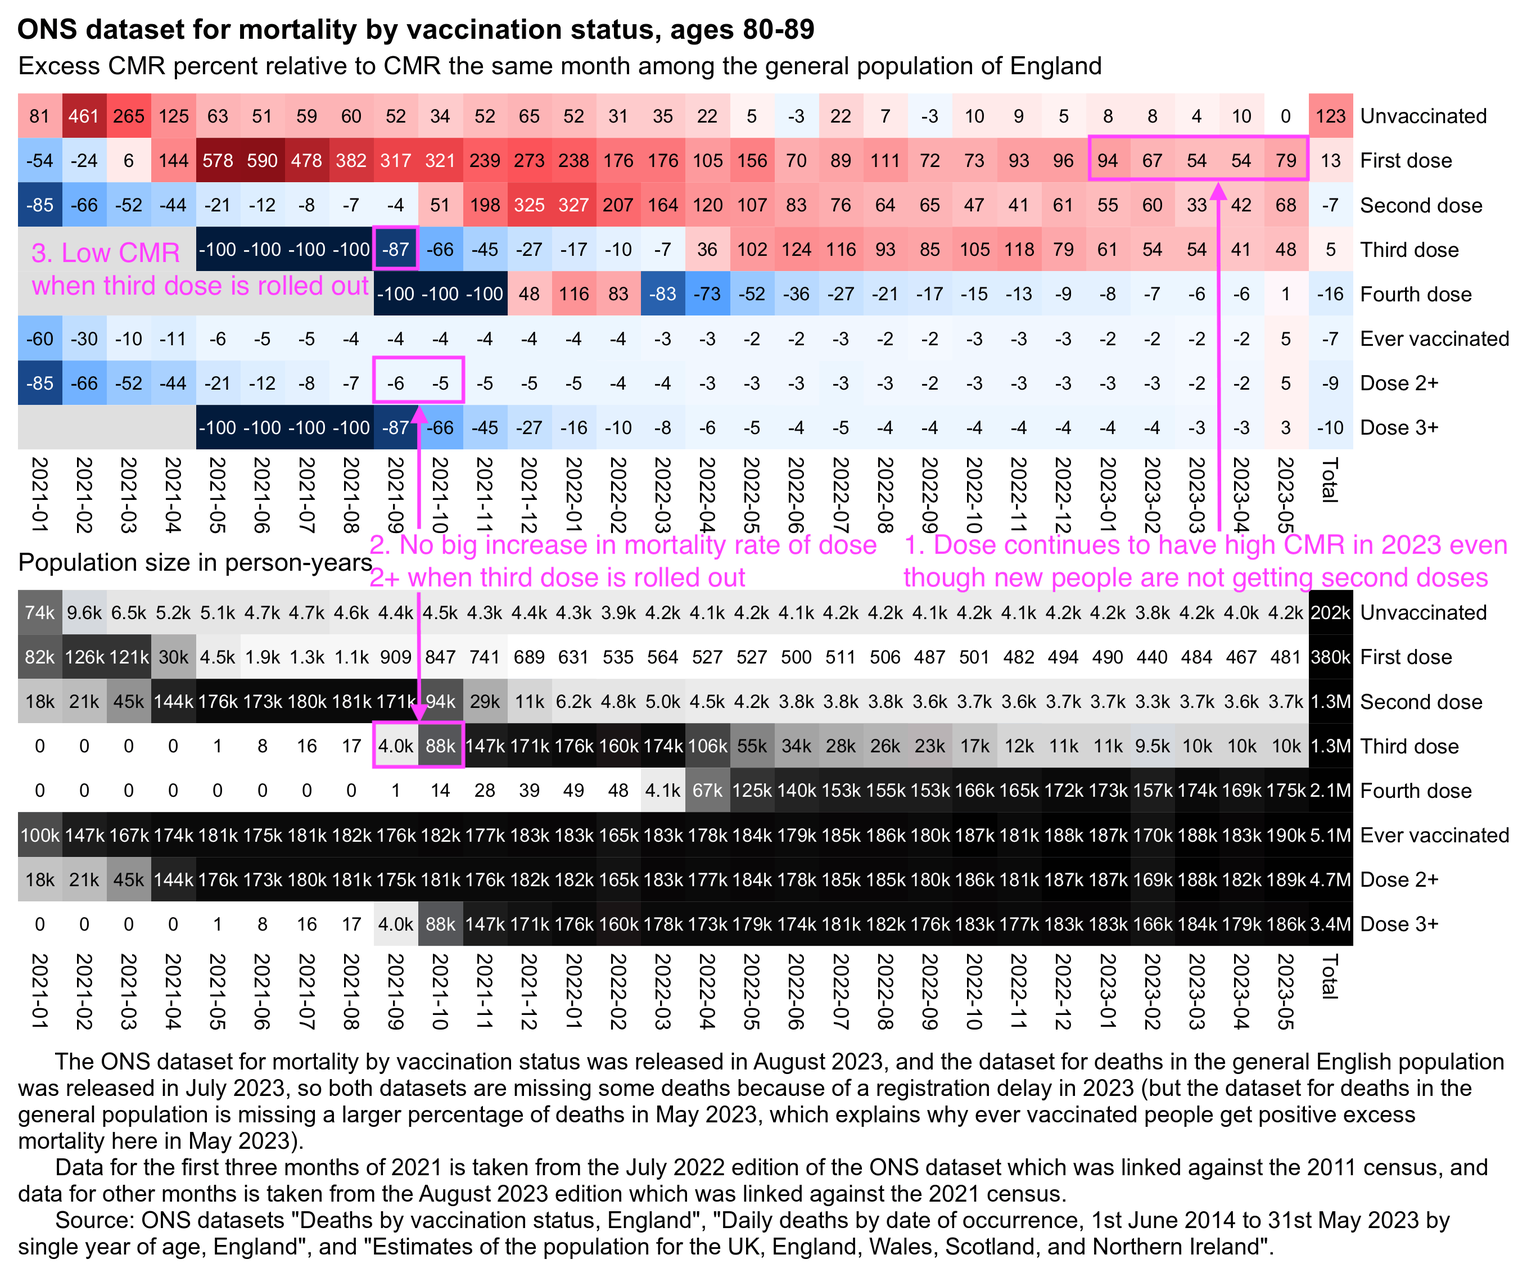
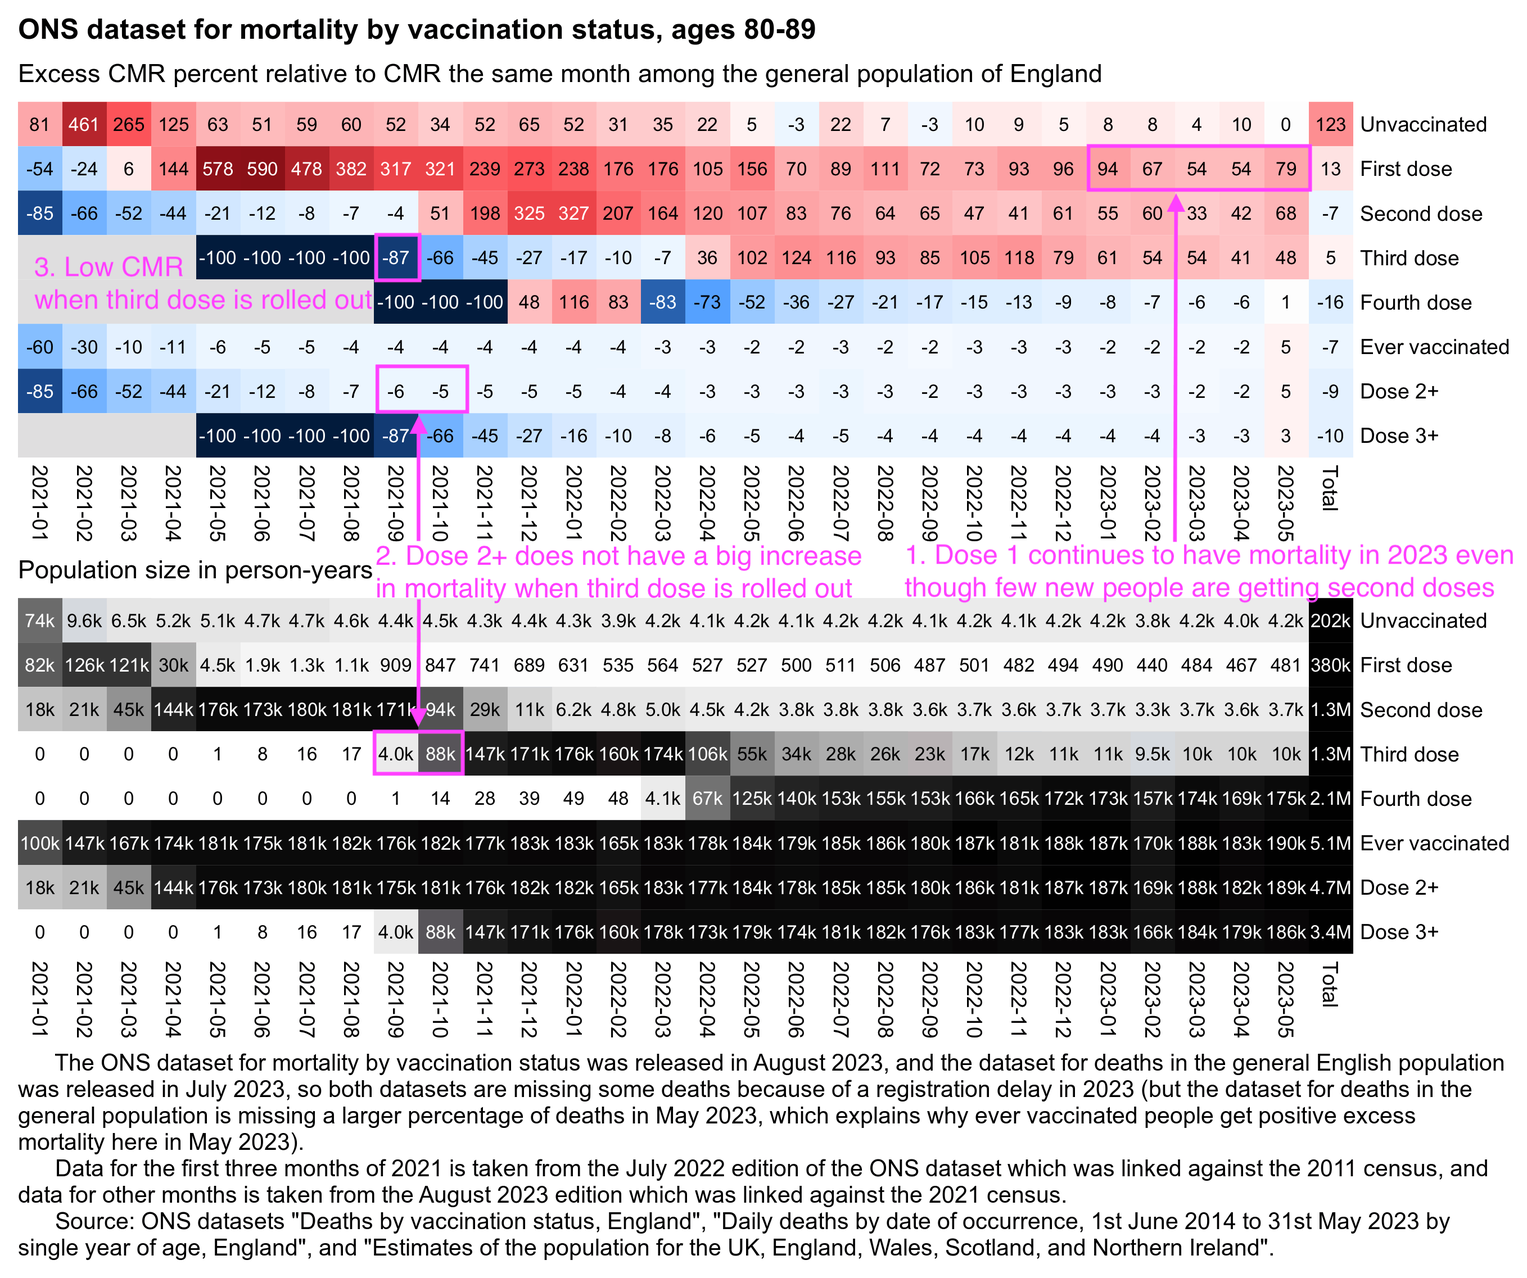
a

diff --git a/rootclaim.html b/rootclaim.html
@@ -4,6 +4,8 @@
 body{background:#292929;color:white;margin:6px 6px 6px max(6px, min(50vw - 270px, 100vw - 1100px))}
 body,td,th{font:14.5px/1.3 Arial,Helvetica,'Liberation Sans',sans-serif}
 p{max-width:540px}
+ul,ol{max-width:500px}
+.toc{max-width:none}
 h1,h2,h3,h2 a,h3 a,h2 a:visited,h3 a:visited{font-weight:normal;color:white}
 h1{font-size:2.1em;margin-top:.9em}
 h2{font-size:1.7em}
@@ -29,7 +31,7 @@ blockquote .quote,blockquote blockquote,.quote .quote{color:hsl(45,55%,65%)}
 blockquote blockquote blockquote,blockquote blockquote .quote,blockquote .quote .quote,.quote .quote .quote{color:hsl(40,40%,50%)}
 .spoiler button{width:90px;border:0;font-family:inherit;font-size:inherit;color:inherit;margin:0;background:#4a4a4a;padding:4px 0px;outline:none;cursor:pointer}
 .spoiler pre{display:none;margin-top:0}
-.red,.red .quote{color:hsl(0,100%,75%)!important}
+.red,.red .quote{color:hsl(0,100%,77%)!important}
 .width1{max-width:100px}
 .width2{max-width:200px}
 .width3{max-width:300px}
@@ -62,9 +64,9 @@ blockquote blockquote blockquote,blockquote blockquote .quote,blockquote .quote 
 <title>Rootclaim vaccine debate between Steve Kirsch and Saar Wilf</title>
 <h1>Rootclaim vaccine debate between Steve Kirsch and Saar Wilf - <a href=index.html>sars2.net</a></h1>
 <h2 id=Contents><a href=#Contents>Contents</a></h2>
-<ul>
+<ul class=toc>
 <li><a href=#Comments_to_Kirschs_initial_arguments>Comments to Kirsch's initial arguments</a>
-<ul>
+<ul class=toc>
 <li><a href=#Fenton_and_Neils_miscategorization_bias>Fenton and Neil's miscategorization bias</a></li>
 <li><a href=#Study_about_COVID_cases_in_children_under_the_age_of_5_1b>Study about COVID cases in children under the age of 5 (1b)</a></li>
 <li><a href=#Plot_by_Jikkyleaks_for_COVID_cases_in_four_Israeli_studies_1c>Plot by Jikkyleaks for COVID cases in four Israeli studies (1c)</a></li>
@@ -91,16 +93,16 @@ blockquote blockquote blockquote,blockquote blockquote .quote,blockquote .quote 
 <li><a href=#Ed_Dowds_book_Cause_Unknown_5m>Ed Dowd's book Cause Unknown (5m)</a></li>
 </ul></li>
 <li><a href=#Comments_to_Kirschs_rebuttal>Comments to Kirsch's rebuttal</a>
-<ul>
+<ul class=toc>
 <li><a href=#Survival_probability_in_Hungarian_study>Survival probability in Hungarian study</a></li>
 <li><a href=#Excess_CMR_in_Asia_Pacific_countries>Excess CMR in Asia-Pacific countries</a></li>
 </ul></li>
 <li><a href=#Wilfs_arguments>Wilf's arguments</a>
-<ul>
+<ul class=toc>
 <li><a href=#Table_of_excess_deaths_by_cause>Table of excess deaths by cause</a></li>
 </ul></li>
 <li><a href=#Substack_post_by_USMortality>Substack post by USMortality</a>
-<ul>
+<ul class=toc>
 <li><a href=#Lack_of_statistically_significant_excess_deaths>Lack of statistically significant excess deaths</a></li>
 <li><a href=#Effect_of_classifying_people_as_vaccinated_only_2_weeks_after_completing_the_primary_course_doses>Effect of classifying people as vaccinated only 2 weeks after completing the primary course doses</a></li>
 <li><a href=#Excess_mortality_in_New_Zealand>Excess mortality in New Zealand</a></li>
@@ -151,6 +153,72 @@ blockquote blockquote blockquote,blockquote blockquote .quote,blockquote .quote 
 <p>Clare Craig might have later come to the conclusion that the low number of deaths during the first two weeks after vaccination might be explained by the HVE, because in 2024 when someone asked her what she meant by the healthy vaccinee effect, she answered that <span class="quote">&quot;Studies show that the first few weeks after vaccination are outliers because people who are feeling ill postpone.&quot;</span> [<a href="https://x.com/ClareCraigPath/status/1844085783365550508">https://x.com/ClareCraigPath/status/1844085783365550508</a>]</p>
 <p>In 2022 Martin Neil tweeted: <span class="quote">&quot;The ONS's December report claims anomalies we identified are caused by healthy vaccinee effect. We examined the new ONS data and found NO evidence to support this claim&quot;</span>. [<a href="https://x.com/MartinNeil9/status/1481561698792267779">https://x.com/MartinNeil9/status/1481561698792267779</a>] And in March 2024 Neil tweeted: <span class="quote">&quot;There is no evidence of a healthy vaccinee effect. You are signing up to an assumption usually exploited to pretend vaccines are effective. We demonstrated this using the ONS's own data.&quot;</span> [<a href="https://x.com/MartinNeil9/status/1767991047940907318">https://x.com/MartinNeil9/status/1767991047940907318</a>] However by April 2024 he seems to have come to the conclusion that the HVE might be real after all based on a Czech study which said that the HVE explained why unvaccinated people had higher mortality than vaccinated people. [<a href="https://x.com/MartinNeil9/status/1780163490247791002">https://x.com/MartinNeil9/status/1780163490247791002</a>]</p>
 <p>So the old letter by Craig and Neil et al. might no longer represent their current views regarding the HVE. The letter also conflicts with the view of Kirsch, who has said that that the HVE explains why his record-level datasets have a low number of deaths in the first few weeks after vaccination, but he has not claimed that his record-level datasets would suffer from the kind of miscategorization bias that was hypothesized by Clare Craig, Martin Neil, and Norman Fenton.</p>
+<p>In the ONS dataset for deaths by vaccination status, the ASMR of people with n-1 doses shoots up when the nth dose is rolled out. Fenton and Neil hypothesized it was because people who died soon after receiving the nth dose were misclassified under dose n-1.</p>
+<p>The next plot demonstrates three major problems with their hypothesis:</p>
+<ol style="list-style-type: decimal">
+<li>People with one but not more doses continue to have a high mortality rate even in 2023, even though there's few new people who are getting a second dose in 2023 so that they could be misclassified under the first dose if they die soon after getting the second dose.</li>
+<li>If a lot of extra people died soon after they got the third dose, then why is there no big increase to the mortality rate of people with two or more doses when the third dose is rolled out? There is only an increase in the mortality rate of people with two but not more doses, but the group of people with two or more doses should also include people who are misclassified under the second dose if they die soon after getting the third dose.</li>
+<li>In November 2021 when the third dose was rolled out, people with three doses had about 68% lower mortality rate than the general population of England. If there is no evidence of the healthy vaccinee effect in the ONS data like Fenton has suggested, then what explains the low mortality rate? (Fenton might argue it's because within the first two or three weeks from the third dose, person-years are counted under under the third dose but deaths are counted under the second dose. But when I first read the papers by Fenton et al., I didn't realize they suggested that the misclassification delay was only applied to the numerator for deaths but not to the denominator for population size. And if I had realized that Fenton's hypothesis required the misclassification delay to only be applied to the numerator but not to the denominator, I would have considered the hypothesis to be much less plausible.)</li>
+</ol>
+<div class="width10">
+<img src="i/uk-fentonproblem.png">
+</div>
+<div class="spoiler">
+<button>
+Show code
+</button><pre>download.file(&quot;https://www.ons.gov.uk/file?uri=/peoplepopulationandcommunity/birthsdeathsandmarriages/deaths/adhocs/1343dailydeathsbydateofoccurrence1stjune2014to31stmay2023bysingleyearofageengland/dailydeaths2014to2023england.xlsx&quot;,&quot;dailydeaths2014to2023england.xlsx&quot;)
+
+library(data.table)
+
+sum0=\(...)sum(...,na.rm=T)
+kimi=\(x){e=floor(log10(ifelse(x==0,1,abs(x))));e2=pmax(e,0)%/%3+1;p=!is.na(x);x[p]=paste0(sprintf(paste0(&quot;%.&quot;,ifelse(e[p]%%3==0,1,0),&quot;f&quot;),x[p]/1e3^(e2[p]-1)),c(&quot;&quot;,&quot;k&quot;,&quot;M&quot;,&quot;B&quot;,&quot;T&quot;)[e2[p]]);x}
+
+ons=fread(&quot;http://sars2.net/f/ons.csv&quot;)[cause==&quot;All causes&quot;&amp;age==&quot;80-89&quot;]
+ons=rbind(ons[ed==9],ons[ed==7&amp;month&lt;=&quot;2021-03&quot;])
+
+p=ons[,.(dead=sum0(dead),pop=sum0(pop)),.(status=sub(&quot;( or booster|,).*&quot;,&quot;&quot;,status),month)]
+p=rbind(p,ons[status!=&quot;Unvaccinated&quot;,.(dead=sum0(dead),pop=sum0(pop),status=&quot;Ever vaccinated&quot;),month])
+p=rbind(p,ons[status%like%&quot;Second|Third|Fourth&quot;,.(dead=sum0(dead),pop=sum0(pop),status=&quot;Dose 2+&quot;),month])
+p=rbind(p,ons[status%like%&quot;Third|Fourth&quot;,.(dead=sum0(dead),pop=sum0(pop),status=&quot;Dose 3+&quot;),month])
+
+p[,status:=factor(status,c(&quot;Unvaccinated&quot;,&quot;First dose&quot;,&quot;Second dose&quot;,&quot;Third dose&quot;,&quot;Fourth dose&quot;,&quot;Ever vaccinated&quot;,&quot;Dose 2+&quot;,&quot;Dose 3+&quot;))]
+
+dead=setDT(readxl::read_excel(&quot;dailydeaths2014to2023england.xlsx&quot;,sheet=4,range=&quot;A6:CP3293&quot;))
+dead=dead[,.(date=as.Date(paste0(Year,&quot;-&quot;,Month,&quot;-&quot;,Day)),age=rep(0:90,each=.N),dead=unlist(.SD[,-(1:3)],,F))]
+pop=fread(&quot;http://sars2.net/f/englandpop.csv&quot;)[,date:=as.Date(paste0(year,&quot;-7-1&quot;))]
+pop=pop[,with(spline(date,pop,xout=unique(dead$date)),.(date=`class&lt;-`(x,&quot;Date&quot;),pop=y)),age]
+p=merge(p,merge(dead,pop)[age%in%80:89,.(basedead=sum(dead),basepop=sum(pop)/365),.(month=substr(date,1,7))])
+
+p=rbind(p,p[,.(dead=sum(dead),pop=sum(pop),basedead=sum(basedead),basepop=sum(basepop),month=&quot;Total&quot;),status])
+p[,cmr:=dead/pop][,base:=basedead/basepop]
+
+m=p[,tapply((cmr-base)/ifelse(cmr&gt;base,base,cmr),.(status,month),c)]
+disp=p[,tapply((cmr/base-1)*100,.(status,month),round)]
+m2=p[,xtabs(pop~status+month)]
+
+max1=9;max2=max(m2[,-ncol(m2)]);exp1=.6;exp2=.85;exp2=.7
+m[m==-Inf]=-max1
+
+pal1=hsv(rep(c(21/36,0),4:5),c(1,.8,.6,.3,0,.3,.6,.8,1),c(.3,.65,1,1,1,1,1,.65,.3))
+pal2=sapply(seq(1,0,,256),\(i)rgb(i,i,i))
+
+pheatmap::pheatmap(sign(m)*abs(m)^exp1,filename=paste0(&quot;i1.png&quot;),display_numbers=disp,
+  cluster_rows=F,cluster_cols=F,legend=F,cellwidth=19,cellheight=19,fontsize=9,fontsize_number=8,
+  border_color=NA,na_col=&quot;gray90&quot;,number_color=ifelse(abs(m)^exp1&gt;max1^exp1*.53,&quot;white&quot;,&quot;black&quot;),
+  breaks=seq(-max1^exp1,max1^exp1,,256),colorRampPalette(pal1)(256))
+
+pheatmap::pheatmap(m2^exp2,filename=paste0(&quot;i2.png&quot;),display_numbers=ifelse(m2&lt;10,m2,kimi(m2)),
+  cluster_rows=F,cluster_cols=F,legend=F,cellwidth=19,cellheight=19,fontsize=9,fontsize_number=8,
+  border_color=NA,na_col=&quot;gray90&quot;,number_color=ifelse(m2^exp2&gt;max2^exp2*.42,&quot;white&quot;,&quot;black&quot;),
+  breaks=seq(0,max2^exp2,,256),pal2)
+
+sub=&quot;\u00a0     The ONS dataset for mortality by vaccination status was released in August 2023, and the dataset for deaths in the general English population was released in July 2023, so both datasets are missing some deaths because of a registration delay in 2023 (but the dataset for deaths in the general population is missing a larger percentage of deaths in May 2023, which explains why ever vaccinated people get positive excess mortality here in May 2023).
+      Data for the first three months of 2021 is taken from the July 2022 edition of the ONS dataset which was linked against the 2011 census, and data for other months is taken from the August 2023 edition which was linked against the 2021 census.
+      Source: ONS datasets \&quot;Deaths by vaccination status, England\&quot;, \&quot;Daily deaths by date of occurrence, 1st June 2014 to 31st May 2023 by single year of age, England\&quot;, and \&quot;Estimates of the population for the UK, England, Wales, Scotland, and Northern Ireland\&quot;.&quot;
+
+system(paste0(&quot;mogrify -trim i[12].png;w=`identify -format %w i1.png`;magick -size $w \\( -pointsize 50 -font Arial-Bold caption:&#39;ONS dataset for mortality by vaccination status, ages 80-89&#39; -splice x10 \\) -pointsize 45 -font Arial \\( caption:&#39;Excess CMR percent relative to CMR the same month among the general population of England&#39; i1.png -splice x24 \\) \\( caption:&#39;Population size in person-years&#39; i2.png -splice x24 \\) \\( -pointsize 41 -font Arial caption:&#39;&quot;,gsub(&quot;&#39;&quot;,&quot;&#39;\\\\&#39;&quot;,sub),&quot;&#39; -splice x20 \\) -append -trim -bordercolor white -border 32 1.png&quot;))</pre>
+</div>
+<p>(The plot above shows CMR instead of ASMR values because it's not possible to add together ASMR values for multiple dose categories, but it is possible to calculate a CMR value for multiple dose categories combined if you just add together total deaths across multiple categories and divide them with the total person-years. I plotted CMR only for a single age group because total CMR for all ages would've been heavily confounded by age. I arbitrarily picked the age group 80-89, but the results for other age groups are similar.)</p>
 <h3>
 <a href=#Study_about_COVID_cases_in_children_under_the_age_of_5_1b id=Study_about_COVID_cases_in_children_under_the_age_of_5_1b>Study about COVID cases in children under the age of 5 (1b)</a>
 </h3>
@@ -717,7 +785,7 @@ a[x&gt;=&quot;2020-12-14&quot;&amp;x&lt;=&quot;2022-10-31&quot;,weighted.mean(va
 <div class="width6">
 <img src="i/nopandemic-rancourt-peru-age-groups.gif">
 </div>
-<p>In Rancourt's recent paper I believe he referred to the Czech record-level data in the following paragraphs, where he now seems to have admitted that the excess deaths that coincided with the booster rollout could not be attributed to people who had recently received the first booster:</p>
+<p>In Rancourt's recent paper I believe he referred to the Czech record-level data in the following paragraphs, where he now seems to have admitted that the excess deaths that coincided with the booster rollout could not be attributed to people who had recently received a booster dose:</p>
 <blockquote>
 <p>Recently, Rancourt et al. (in preparation) analysed national mortality data in one country in which COVID-19 vaccination status was known at death, including the history of COVID-19 vaccinations, in a case in which the country exhibited rapid vaccine rollouts strongly temporally associated with observed surges in excess all-cause mortality. They found that relevant <span class="red">peaks in excess all-cause mortality associated with booster rollouts could not preferentially be assigned to booster-vaccinated individuals</span> (and also that the vaccine had no detectable survival benefit).</p>
 <p><span class="red">This means that the COVID-19 vaccination primary cause described in Section 3.3.5 did not produce a measurable increase in excess all-cause mortality in this country, which in turn means that sharp peaks in excess all-cause mortality which are temporally associated with rapid vaccine rollouts need not imply that COVID-19 vaccination is a primary cause of death.</span> Rather, it seems that (as pervasive as they are) such temporal associations between mortality peaks and rapid vaccine rollouts are due to the primary cause described in Section 3.3.6 of campaigns and measures associated in time and place with COVID-19 vaccine rollouts. Although non-conclusive in general, this is consistent with the fact that the vaccine toxicity causing death inferred from populationwide adverse-effect monitoring is usually too small to be detected directly in populationwide (e.g., national) cause-independent all-cause mortality, as per analyses of USA VAERS (Vaccine Adverse Events Reporting System) data (Hickey and Rancourt, 2022).</p>
@@ -1653,23 +1721,22 @@ print(round(d),r=F)</pre>
  2020    453810 350831 12680 2983    1047     86269
  2021    530876 416893 22602 5467    4850     81065
  2022    327658 186552 18918 3535    3088    115565</pre>
-<p>Wilf took the number of COVID deaths from OWID which in turn took it from WHO. [<a href="https://ourworldindata.org/explorers/covid?tab=table&time=earliest%2e%2e2022-12-31&country=%7eUSA&pickerSort=desc&pickerMetric=total_deaths&Metric=Confirmed+deaths&Interval=Cumulative&Relative+to+population=false">https://ourworldindata.org/explorers/covid?tab=table&amp;time=earliest%2e%2e2022-12-31&amp;country=%7eUSA&amp;pickerSort=desc&amp;pickerMetric=total_deaths&amp;Metric=Confirmed+deaths&amp;Interval=Cumulative&amp;Relative+to+population=false</a>, <a href="https://data.who.int/dashboards/covid19/data?n=c&m49=840">https://data.who.int/dashboards/covid19/data?n=c&amp;m49=840</a>] The number of deaths in the WHO dataset doesn't match either MCD or UCD COVID deaths at CDC WONDER, but it might be because the WHO dataset is by <span class="quote">&quot;date reported to WHO&quot;</span> but CDC WONDER is by date of occurrence. The numbers in the WHO dataset are also slightly off from OWID, but I think it's because OWID interpolated WHO's weekly data to daily data. Here I converted the weekly deaths to yearly deaths based on the year of Sunday in the second column but based on the year of Thursday in the third column, which alone made a big difference to the number of deaths in 2020:</p>
+<p>Wilf took the number of COVID deaths from OWID which in turn took it from a dataset published by WHO. [<a href="https://ourworldindata.org/explorers/covid?tab=table&time=earliest%2e%2e2022-12-31&country=%7eUSA&pickerSort=desc&pickerMetric=total_deaths&Metric=Confirmed+deaths&Interval=Cumulative&Relative+to+population=false">https://ourworldindata.org/explorers/covid?tab=table&amp;time=earliest%2e%2e2022-12-31&amp;country=%7eUSA&amp;pickerSort=desc&amp;pickerMetric=total_deaths&amp;Metric=Confirmed+deaths&amp;Interval=Cumulative&amp;Relative+to+population=false</a>, <a href="https://data.who.int/dashboards/covid19/data?n=c&m49=840">https://data.who.int/dashboards/covid19/data?n=c&amp;m49=840</a>] The number of deaths in the WHO dataset doesn't match either MCD or UCD COVID deaths at CDC WONDER, but it might be because the deaths in the WHO dataset are by <span class="quote">&quot;date reported to WHO&quot;</span> but deaths at CDC WONDER are by date of occurrence. The numbers in the WHO dataset are also slightly off from the numbers listed at OWID, but I think it's because OWID interpolated WHO's weekly data to daily data. Here I converted the weekly deaths to yearly deaths based on the year of the Thursday:</p>
 <pre>&gt; who=fread(&quot;https://srhdpeuwpubsa.blob.core.windows.net/whdh/COVID/WHO-COVID-19-global-data.csv&quot;)
-&gt; d=who[Country_code==&quot;US&quot;,.(dead_sunday=sum(New_deaths,na.rm=T)),.(year=year(Date_reported))]
-&gt; merge(d,who[Country_code==&quot;US&quot;,.(dead_thursday=sum(New_deaths,na.rm=T)),.(year=year(Date_reported-3))])
-   year dead_sunday dead_thursday
-1: 2020      342920        362570 # 348653 in Wilf&#39;s table
-2: 2021      469667        459163 # 470402
-3: 2022      267389        260723 # 263401
-4: 2023       84511         82031
-5: 2024       45580         45580</pre>
+&gt; who[Country_code==&quot;US&quot;,.(dead=sum(New_deaths,na.rm=T)),.(year=year(Date_reported-3))]|&gt;print(r=F)
+year   dead
+2020 362570 # 348653 in Wilf&#39;s table
+2021 459163 # 470402
+2022 260723 # 263401
+2023  82031
+2024  45580</pre>
 <p>The WHO dataset appears to correspond to MCD rather than UCD deaths at CDC WONDER, except the deaths in the WHO dataset seem to be reported with a delay so that there's less deaths in 2020 and 2021 but more deaths in 2022:</p>
 <pre>&gt; v[cause==&quot;U071&quot;,.(ucd=sum(ucd),mcd=sum(mcd)),year]
-   year    ucd    mcd
+   year    ucd    mcd # deaths at CDC WONDER and NVSS
 1: 2020 350831 397566
 2: 2021 416893 478402
 3: 2022 186552 254355</pre>
-<p>But anyway Wilf might have underestimated the remainder of unexplained deaths because he looked at MCD rather than UCD COVID deaths (even though UCD COVID seems to fall short of excess deaths during COVID waves).</p>
+<p>But anyway Wilf might have underestimated his remainder of unexplained deaths because he looked at MCD rather than UCD COVID deaths (even though UCD COVID seems to fall short of excess deaths during COVID waves).</p>
 <p>However CDC's estimate for excess deaths seems to be accurate, or at least it's close to my estimate here where I multiplied the 2013-2019 trend in CMR for each age by the mid-year resident population estimate for the age:</p>
 <pre>d=data.table(year=2020:2022,cdcexcess=c(453810,530876,327658))
 years=2011:2023

diff --git a/uk.html b/uk.html
@@ -4,6 +4,8 @@
 body{background:#292929;color:white;margin:6px 6px 6px max(6px, min(50vw - 270px, 100vw - 1100px))}
 body,td,th{font:14.5px/1.3 Arial,Helvetica,'Liberation Sans',sans-serif}
 p{max-width:540px}
+ul,ol{max-width:500px}
+.toc{max-width:none}
 h1,h2,h3,h2 a,h3 a,h2 a:visited,h3 a:visited{font-weight:normal;color:white}
 h1{font-size:2.1em;margin-top:.9em}
 h2{font-size:1.7em}
@@ -62,13 +64,13 @@ blockquote blockquote blockquote,blockquote blockquote .quote,blockquote .quote 
 <title>UK mortality and COVID statistics</title>
 <h1>UK mortality and COVID statistics - <a href=index.html>sars2.net</a></h1>
 <h2 id=Contents><a href=#Contents>Contents</a></h2>
-<ul>
+<ul class=toc>
 <li><a href=#Martin_Neil_and_Norman_Fenton_March_2024_preprint_about_the_cheap_trick>Martin Neil and Norman Fenton: March 2024 preprint about the cheap trick</a></li>
 <li><a href=#motherfunkr_Unvaccinated_ASMR_reached_near_vaccinated_ASMR_during_the_last_month_of_data_included_in_the_ONS_dataset>motherfunkr: Unvaccinated ASMR reached near vaccinated ASMR during the last month of data included in the ONS dataset</a></li>
 <li><a href=#Clare_Craig_New_baseline_used_by_ONS_to_calculate_excess_deaths>Clare Craig: New baseline used by ONS to calculate excess deaths</a></li>
 <li><a href=#canceledmouse_Neonatal_deaths_in_Scotland>canceledmouse: Neonatal deaths in Scotland</a></li>
 <li><a href=#Clare_Craig_May_2024_UKHSA_FOI_response_for_deaths_in_vaccinated_people>Clare Craig: May 2024 UKHSA FOI response for deaths in vaccinated people</a>
-<ul>
+<ul class=toc>
 <li><a href=#Monthly_deaths_in_FOI_response_compared_to_ONS_data>Monthly deaths in FOI response compared to ONS data</a></li>
 <li><a href=#Were_dying_people_vaccinated_on_their_deathbed>Were dying people vaccinated on their deathbed?</a></li>
 <li><a href=#Mortality_rate_by_week_of_vaccination_up_to_the_end_of_2022>Mortality rate by week of vaccination up to the end of 2022</a></li>
